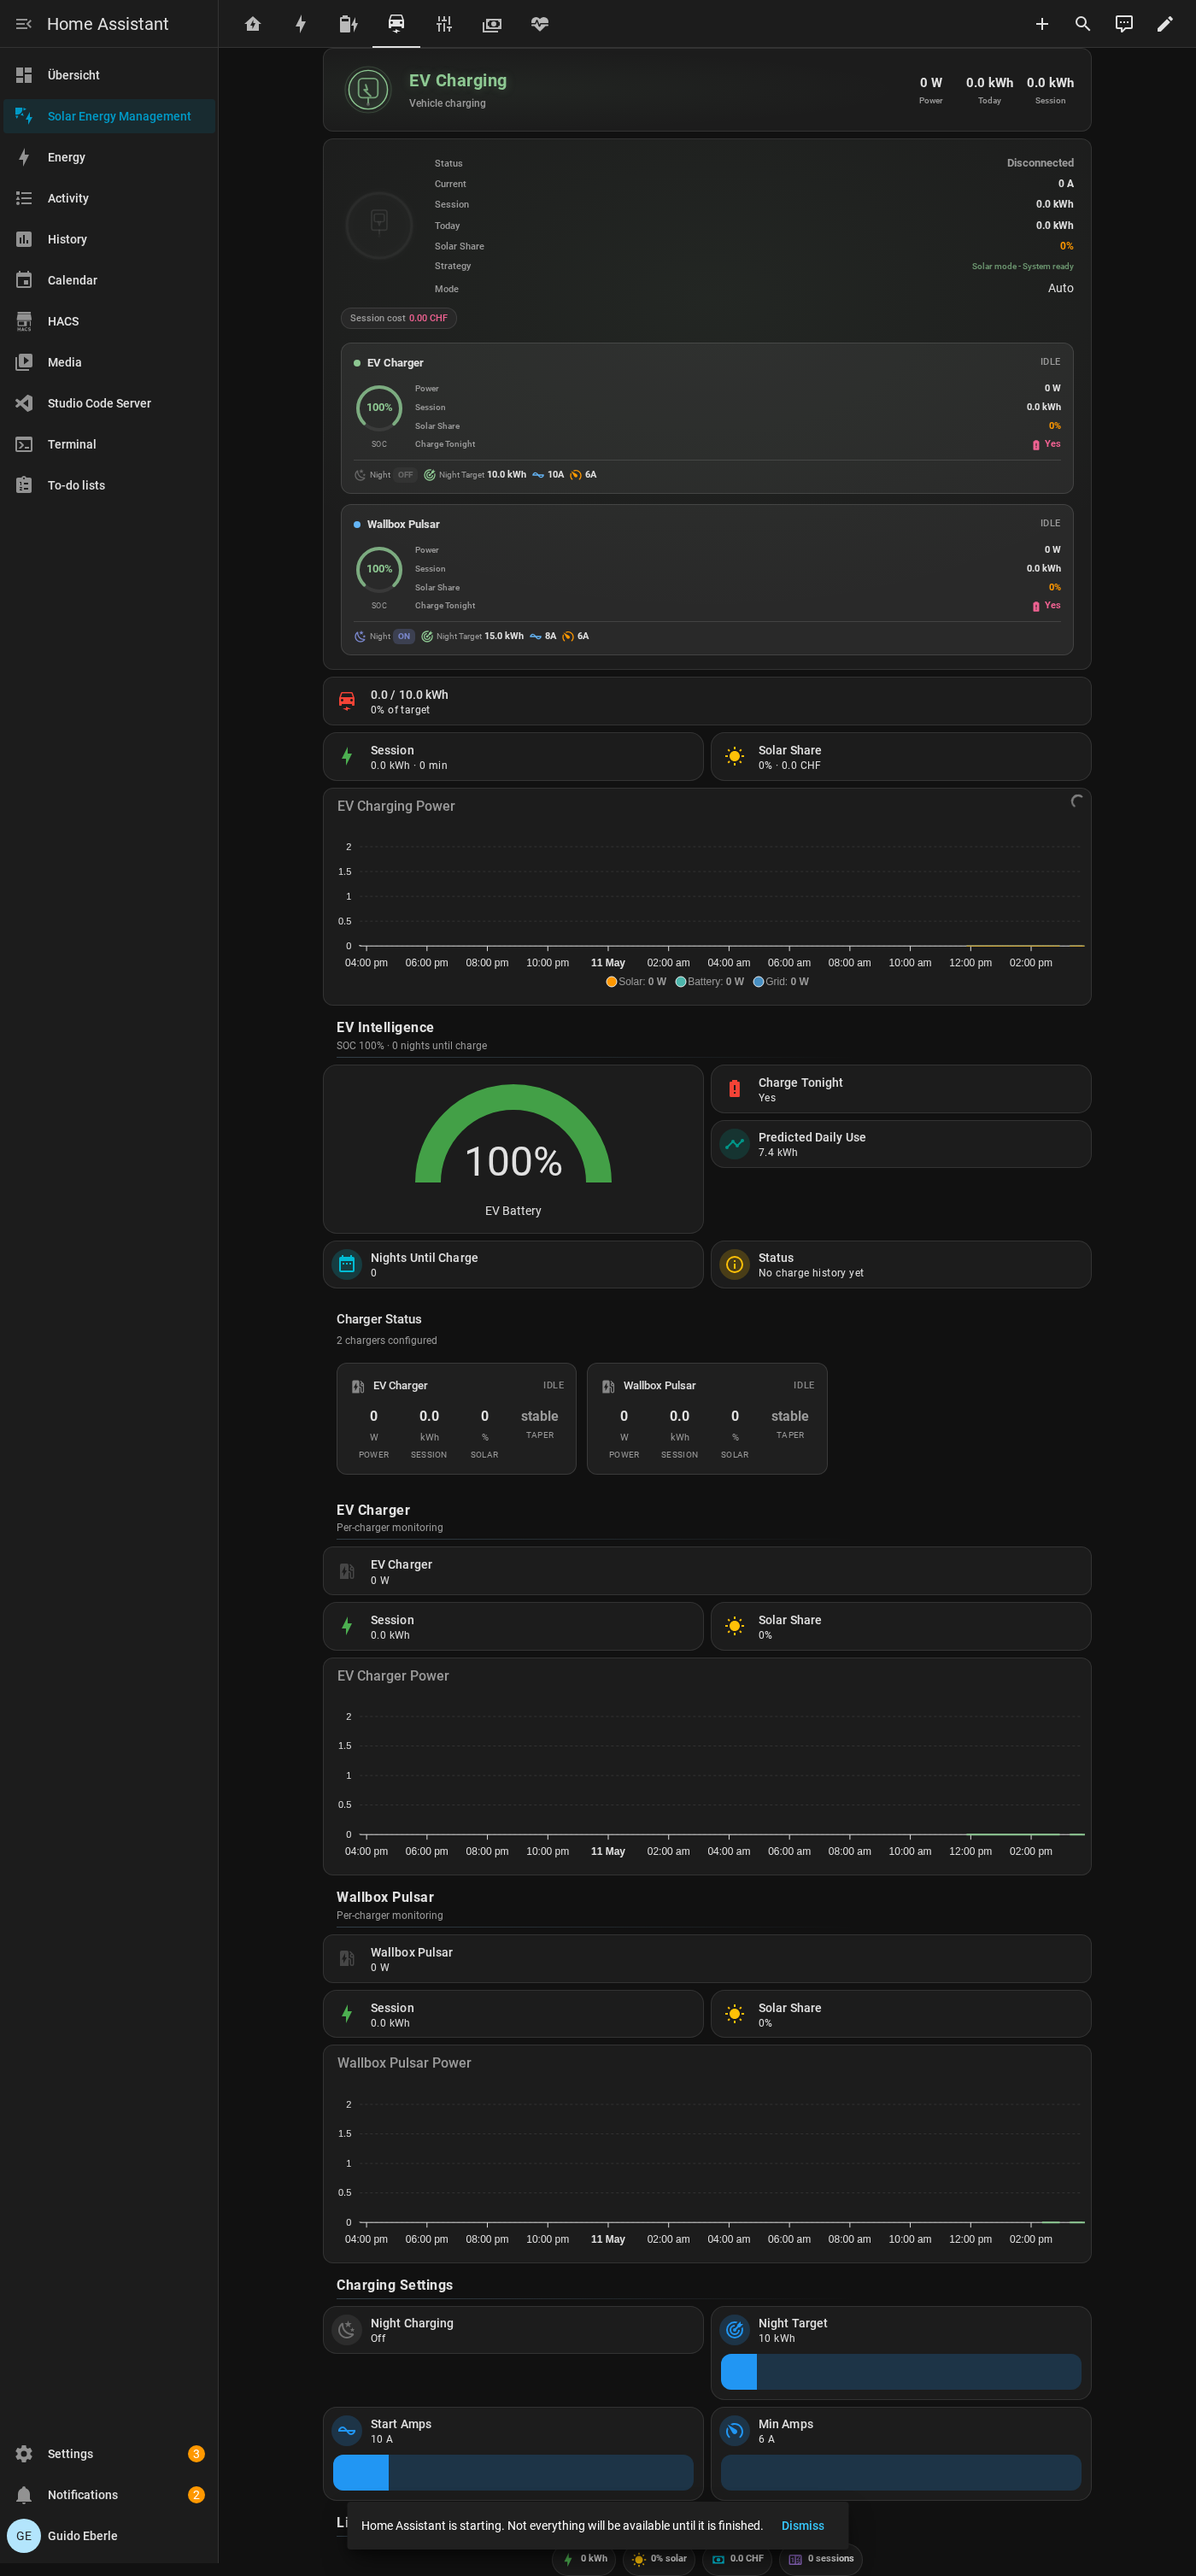
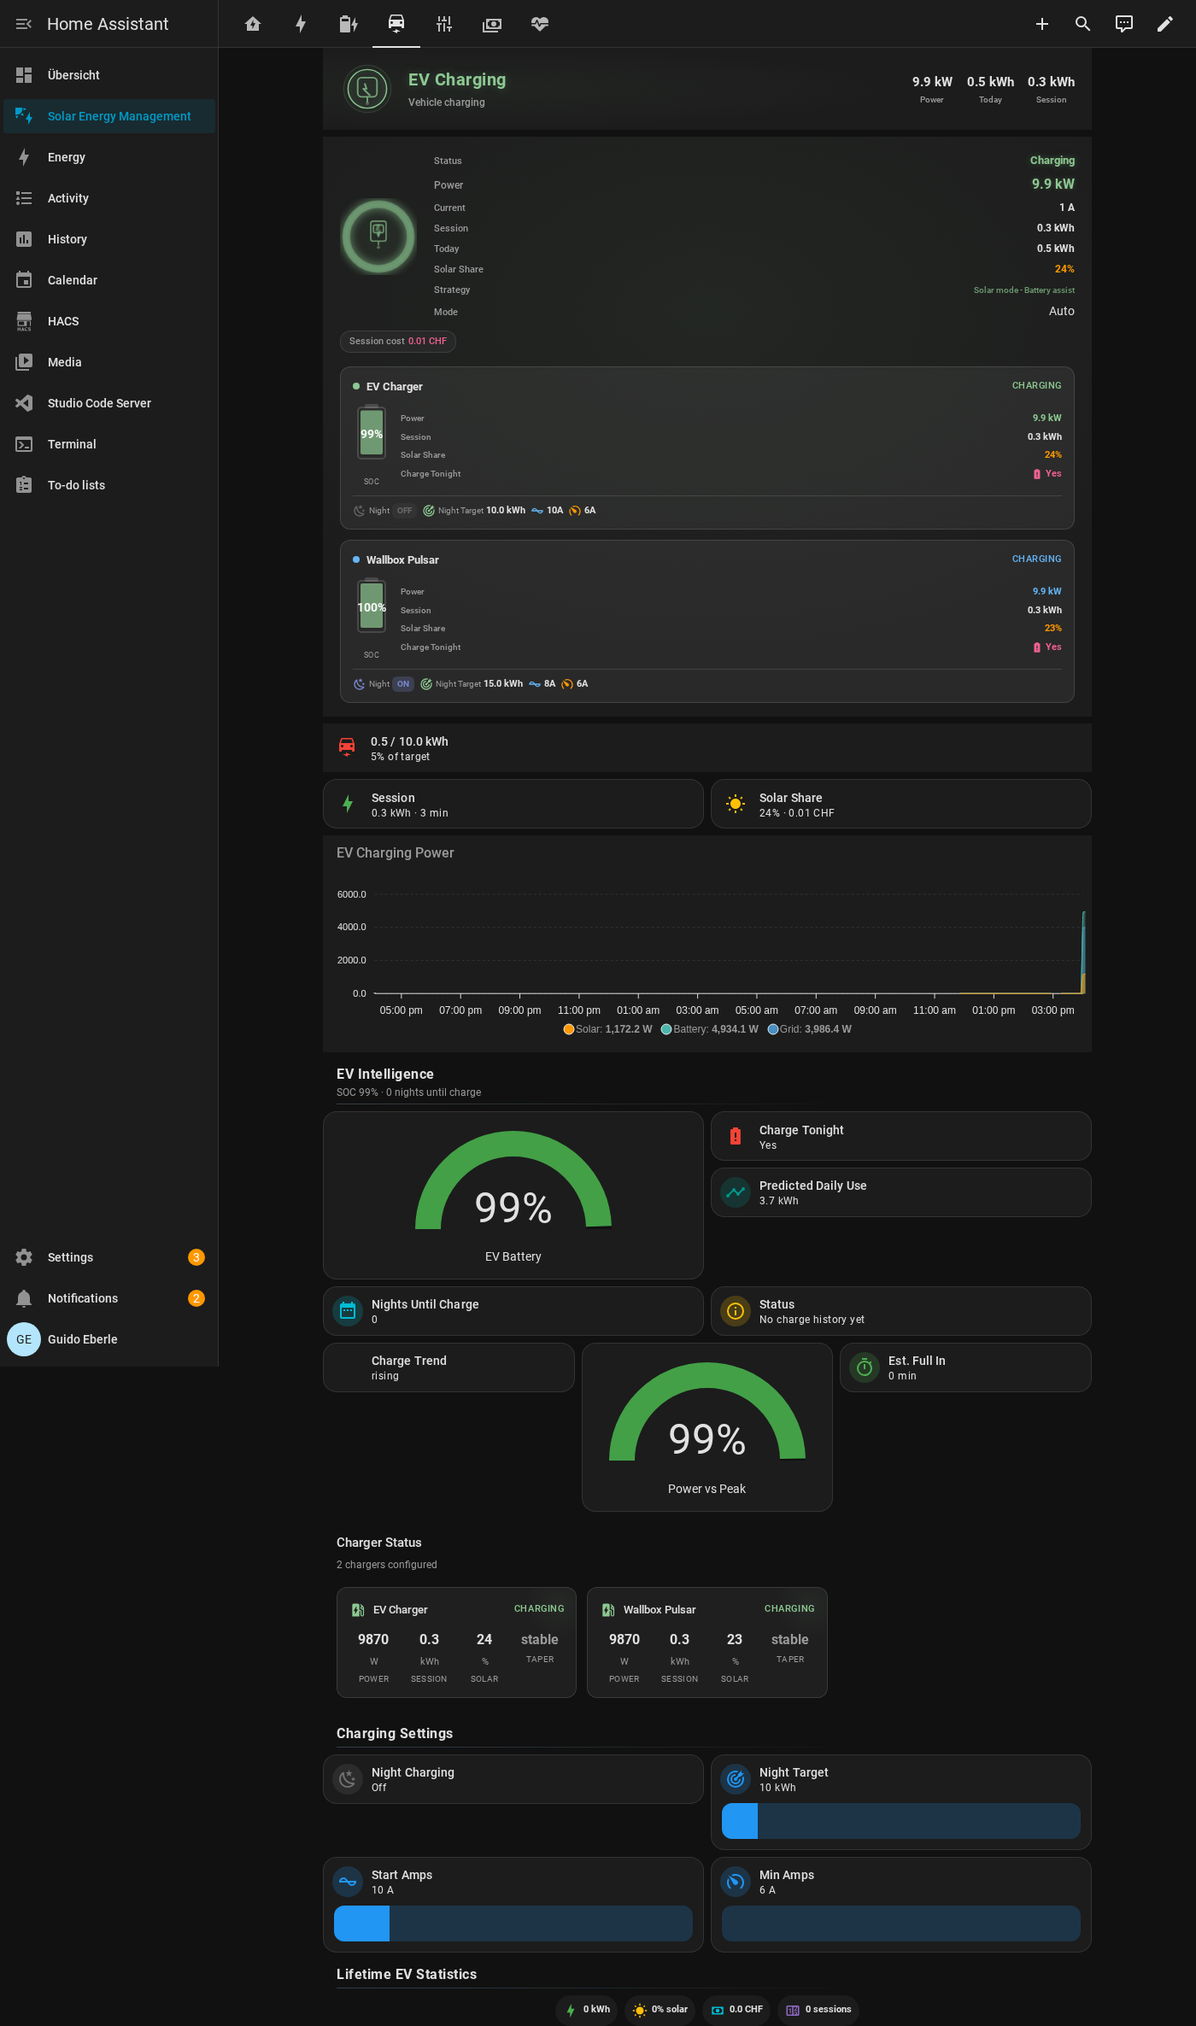
Replace SOC circle with battery gauge in per-charger sections (#193)
Battery-shaped SVG gauge with fill level, green/orange/red color
by SOC percentage, and percentage text overlay. More recognizable
as a battery indicator than the previous arc gauge.

diff --git a/dashboard/card/sem-ev-status-card.js b/dashboard/card/sem-ev-status-card.js
@@ -255,10 +255,10 @@ class SEMEVStatusCard extends SEMBaseCard {
             const chargeColor = needsCharge ? '#f06292' : '#8DC892';
             const chargeText = needsCharge ? this._t('yes') : this._t('no');
 
-            // SOC gauge arc (0-100%)
+            // SOC battery gauge (0-100%)
             const socVal = soc != null ? Math.max(0, Math.min(100, soc)) : 0;
-            const socAngle = (socVal / 100) * 270;
             const socColor = socVal > 60 ? '#8DC892' : socVal > 30 ? '#ff9800' : '#f06292';
+            const socFill = Math.max(2, (socVal / 100) * 52); // fill height in SVG units
 
             return `
                 <div class="charger-section">
@@ -269,21 +269,23 @@ class SEMEVStatusCard extends SEMBaseCard {
                     </div>
 
                     <div class="charger-body">
-                        <!-- Left: SOC gauge -->
+                        <!-- Left: Battery SOC gauge -->
                         <div class="charger-soc">
-                            <svg viewBox="0 0 60 60">
-                                <circle cx="30" cy="30" r="25" fill="none"
-                                    stroke="rgba(255,255,255,0.08)" stroke-width="4"
-                                    stroke-dasharray="212" stroke-dashoffset="0"
-                                    transform="rotate(135 30 30)" stroke-linecap="round"/>
-                                <circle cx="30" cy="30" r="25" fill="none"
-                                    stroke="${socColor}" stroke-width="4"
-                                    stroke-dasharray="${(socAngle/360)*157} 157"
-                                    transform="rotate(135 30 30)" stroke-linecap="round"
-                                    opacity="0.8"/>
-                                <text x="30" y="33" text-anchor="middle"
-                                    fill="${socColor}" font-size="13" font-weight="700"
-                                    font-family="'Segoe UI','Roboto',sans-serif">
+                            <svg viewBox="0 0 44 76">
+                                <!-- Battery terminal -->
+                                <rect x="14" y="0" width="16" height="5" rx="2"
+                                    fill="rgba(255,255,255,0.15)"/>
+                                <!-- Battery body outline -->
+                                <rect x="6" y="4" width="32" height="60" rx="4"
+                                    fill="none" stroke="rgba(255,255,255,0.15)" stroke-width="2"/>
+                                <!-- Fill level -->
+                                <rect x="9" y="${7 + (52 - socFill)}" width="26" height="${socFill}" rx="2"
+                                    fill="${socColor}" opacity="0.7"/>
+                                <!-- Percentage text -->
+                                <text x="22" y="40" text-anchor="middle"
+                                    fill="white" font-size="14" font-weight="700"
+                                    font-family="'Segoe UI','Roboto',sans-serif"
+                                    opacity="0.95">
                                     ${soc != null ? Math.round(soc) + '%' : '\u2014'}
                                 </text>
                             </svg>
@@ -429,15 +431,15 @@ class SEMEVStatusCard extends SEMBaseCard {
                 }
                 .charger-soc {
                     flex-shrink: 0;
-                    width: 60px;
+                    width: 44px;
                     text-align: center;
                 }
-                .charger-soc svg { width: 60px; height: 60px; }
+                .charger-soc svg { width: 44px; height: 76px; }
                 .soc-label {
                     display: block;
                     font-size: 9px;
                     color: ${textSecCol};
-                    margin-top: -2px;
+                    margin-top: 2px;
                     text-transform: uppercase;
                     letter-spacing: 0.05em;
                 }
